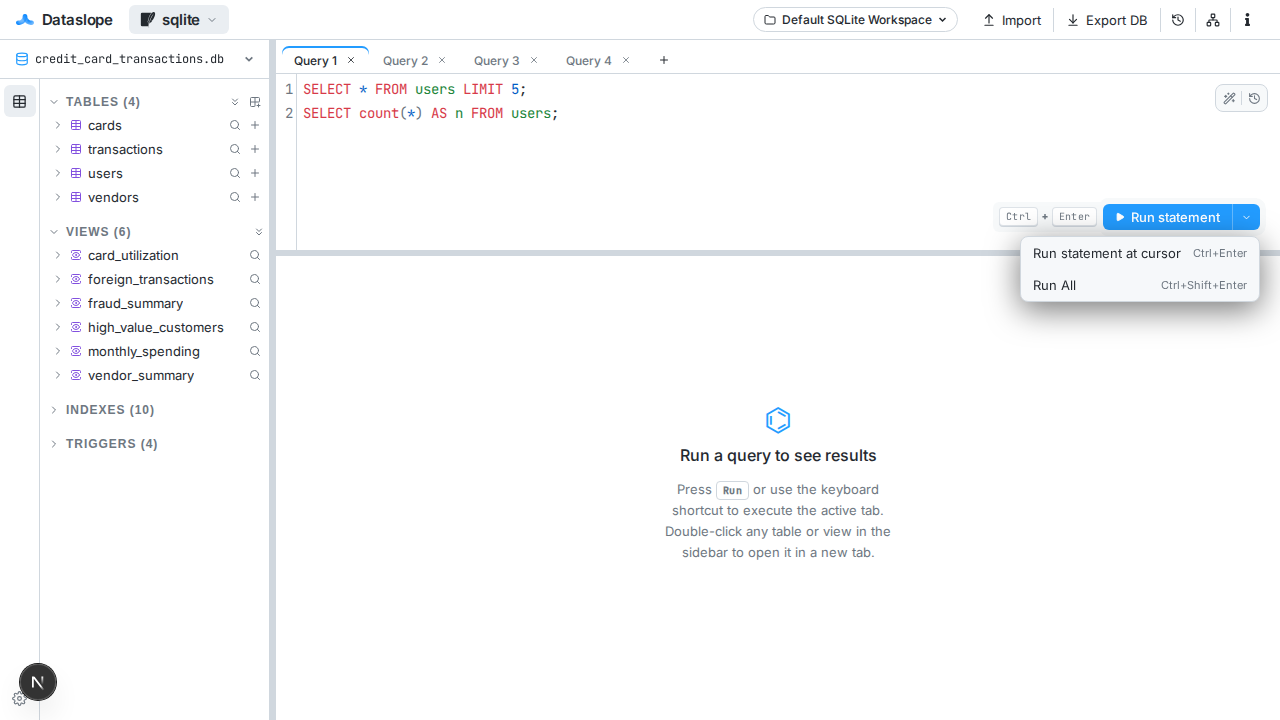
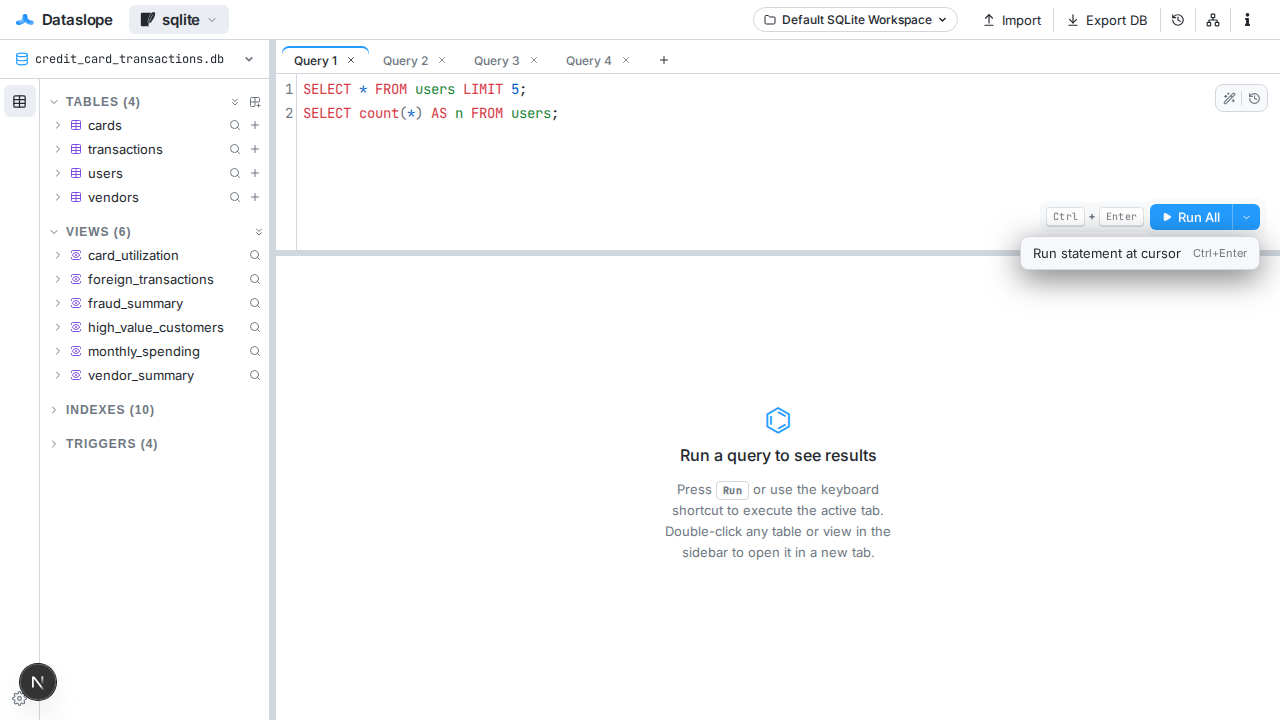
SQL playgrounds: split-button dropdown holds only the alternative action
The run split button previously listed its own primary action again in the
dropdown (e.g. primary "Run Selection" + a duplicate "Run Selection" item),
so two paths invoked the same callback. Restructure so the dropdown only ever
offers the *other* action:

  multi-statement, no selection  primary "Run All"        dropdown: Run statement at cursor (Ctrl+Enter)
  selection active               primary "Run Selection"  dropdown: Run All (Ctrl+Shift+Enter)
  single statement               plain "Run" button

The Ctrl/Cmd+Enter keymap is unchanged (still runs the statement at the cursor
in a multi-statement tab); the dropdown documents that shortcut.

Toolbar-only change. e2e/sql-run-statement-at-cursor.spec.ts updated to assert
the new defaults and that neither dropdown duplicates its primary action;
screenshot regenerated. tsc clean; eslint 0 errors; unit 378 green.

https://claude.ai/code/session_01X4jRTd8V4JHUautgyaMoZ8

Changed region(s): [[0.7812, 0.3667, 1.0, 0.4583], [0.7812, 0.275, 0.9688, 0.3361]]

diff --git a/e2e/sql-run-statement-at-cursor.spec.ts b/e2e/sql-run-statement-at-cursor.spec.ts
@@ -1,19 +1,20 @@
 import { test, expect } from "@playwright/test";
 
 // ─────────────────────────────────────────────────────────────────────
-// Run statement at cursor (Phase 4 / §9 missing IDE feature).
+// Run controls for multi-statement tabs (Phase 4 / §9 IDE feature).
 //
-// In a multi-statement tab, running with no selection executes only the
-// statement under the cursor — via the keyboard (Ctrl/⌘+Enter) and via a
-// discoverable toolbar "Run statement" split button (whose dropdown also
-// offers "Run All"). A single-statement tab keeps the plain "Run" button and
-// runs everything. Engine-agnostic (shared editor + toolbar) → tested on
-// SQLite.
+// Split-button rules — the dropdown never duplicates the primary action:
+//   • Multi-statement, no selection → primary "Run All";   dropdown: "Run
+//     statement at cursor" (Ctrl/⌘+Enter still runs just that statement).
+//   • Selection active             → primary "Run Selection"; dropdown: "Run
+//     All" (no duplicate "Run Selection").
+//   • Single statement             → plain "Run" button (runs everything).
+// Engine-agnostic (shared editor + toolbar) → tested on SQLite.
 // ─────────────────────────────────────────────────────────────────────
 
 const THREE = "SELECT 1 AS one;\nSELECT 2 AS two;\nSELECT 3 AS three;";
 
-test("run statement at cursor — keyboard, toolbar button, and dropdown", async ({
+test("run controls — Run All default, run-at-cursor in dropdown, no duplicate actions", async ({
   page,
 }) => {
   test.setTimeout(180_000);
@@ -28,6 +29,8 @@ test("run statement at cursor — keyboard, toolbar button, and dropdown", async
   const grid = page.locator(".sql-result-table");
   const setTabs = page.locator(".sql-result-set-tabs");
   const splitMain = page.locator(".run-btn-split-main");
+  const chevron = page.locator(".run-btn-split-chevron");
+  const dropdown = page.locator(".run-split-dropdown");
 
   const typeIntoEditor = async (text: string) => {
     await editor.click();
@@ -36,11 +39,19 @@ test("run statement at cursor — keyboard, toolbar button, and dropdown", async
     await page.keyboard.insertText(text);
   };
 
-  // A multi-statement tab (no selection) surfaces the "Run statement" split.
+  // Multi-statement, no selection → primary action is "Run All".
   await typeIntoEditor(THREE);
-  await expect(splitMain).toHaveText(/Run statement/);
+  await expect(splitMain).toHaveText(/Run All/);
 
-  // (1) Keyboard: cursor in the middle statement → only it runs.
+  // …and the dropdown offers ONLY "Run statement at cursor" (no duplicate).
+  await chevron.click();
+  await expect(dropdown.getByRole("menuitem")).toHaveCount(1);
+  await expect(
+    dropdown.getByRole("menuitem", { name: "Run statement at cursor" }),
+  ).toBeVisible();
+  await page.keyboard.press("Escape");
+
+  // (1) Keyboard Ctrl/⌘+Enter with the cursor in the middle statement → only it.
   await page.locator(".cm-line").nth(1).click();
   await page.keyboard.press("ControlOrMeta+Enter");
   await expect(grid.getByText("two", { exact: true })).toBeVisible({
@@ -49,22 +60,35 @@ test("run statement at cursor — keyboard, toolbar button, and dropdown", async
   await expect(setTabs).toHaveCount(0);
   await expect(grid.getByText("one", { exact: true })).toHaveCount(0);
 
-  // (2) Toolbar button: cursor in the third statement → only it runs.
+  // (2) Dropdown "Run statement at cursor" with the cursor in the third → only it.
   await page.locator(".cm-line").nth(2).click();
-  await splitMain.click();
+  await chevron.click();
+  await dropdown.getByRole("menuitem", { name: "Run statement at cursor" }).click();
   await expect(grid.getByText("three", { exact: true })).toBeVisible({
     timeout: 40_000,
   });
   await expect(setTabs).toHaveCount(0);
   await expect(grid.getByText("two", { exact: true })).toHaveCount(0);
 
-  // (3) Dropdown "Run All" → all three statements run (a result-set tab bar).
-  await page.locator(".run-btn-split-chevron").click();
-  await page.getByRole("menuitem", { name: "Run All" }).click();
+  // (3) The primary "Run All" button runs every statement (a result-set tab bar).
+  await splitMain.click();
   await expect(setTabs).toBeVisible({ timeout: 40_000 });
   await expect(setTabs.locator("[role=tab], button")).toHaveCount(3);
 
-  // (4) A single-statement tab falls back to the plain "Run" button.
+  // (4) With a selection, the primary becomes "Run Selection" and the dropdown
+  //     offers ONLY "Run All" — no duplicate "Run Selection".
+  await editor.click();
+  await page.keyboard.press("ControlOrMeta+a");
+  await expect(splitMain).toHaveText(/Run Selection/);
+  await chevron.click();
+  await expect(dropdown.getByRole("menuitem")).toHaveCount(1);
+  await expect(dropdown.getByRole("menuitem", { name: "Run All" })).toBeVisible();
+  await expect(
+    dropdown.getByRole("menuitem", { name: "Run Selection" }),
+  ).toHaveCount(0);
+  await page.keyboard.press("Escape");
+
+  // (5) A single-statement tab falls back to the plain "Run" button.
   await typeIntoEditor("SELECT 42 AS answer;");
   await expect(page.locator(".run-btn")).toHaveText(/^Run$/);
   await expect(splitMain).toHaveCount(0);

diff --git a/app/_components/sql/components/SqlEditorToolbar.tsx b/app/_components/sql/components/SqlEditorToolbar.tsx
@@ -135,24 +135,20 @@ export function SqlEditorToolbar({
             disabled={disabled}
             mainLabel="Run Selection"
             onMain={onRunSelection}
-            items={[
-              { label: "Run Selection", kbd: runKbd, onClick: onRunSelection },
-              { label: "Run All", kbd: runAllKbd, onClick: onRunAll },
-            ]}
+            items={[{ label: "Run All", kbd: runAllKbd, onClick: onRunAll }]}
           />
         ) : hasMultipleStatements ? (
           <RunSplit
             running={running}
             disabled={disabled}
-            mainLabel="Run statement"
-            onMain={onRunStatement}
+            mainLabel="Run All"
+            onMain={onRunAll}
             items={[
               {
                 label: "Run statement at cursor",
                 kbd: runKbd,
                 onClick: onRunStatement,
               },
-              { label: "Run All", kbd: runAllKbd, onClick: onRunAll },
             ]}
           />
         ) : (

diff --git a/agent-outputs/20260531-0345-sql-playgrounds-ux-audit.md b/agent-outputs/20260531-0345-sql-playgrounds-ux-audit.md
@@ -11,7 +11,7 @@
 > - **2026-06-02 — Post-commit undo, DuckDB parameter binding, run-statement-at-cursor (this PR).**
 >   - **UX-10 — *post-commit undo* (now complete).** After committing cell edit(s), a slim **"Undo"** bar appears below the result grid ("Updated N cells in <table>") and re-applies the **previous** values on click — PK-addressed, so it's still correct after the edited row moved under MVCC. It survives the post-commit re-fetch, auto-dismisses after 15 s, and is gated by a pure `reversibleCellValue` helper so it's only offered when every prior value round-trips cleanly (scalars/`Date`; complex array/object/bytes originals suppress it rather than risk a lossy reverse-write). Per-cell discard ✕ + Ctrl/⌘+Enter commit were already done, so UX-10 is now fully closed. Shared `ResultView` + `utils/cellEditing.ts` (**+4** unit tests), live-verified on SQLite/PostgreSQL/DuckDB (`e2e/sql-edit-undo.spec.ts`). `fix-undo-bar.png`.
 >   - **UX-17 — DuckDB writes now use prepared-statement parameter binding.** `updateRows` / `insertRow` / `deleteRows` no longer build SQL by quote-escaping and string-concatenating values; they bind positional `?` parameters via `conn.prepare(...)` (verified working in duckdb-wasm 1.32.0). DuckDB casts each parameter to the target column type — so a numeric column edited through a text input is no longer at risk of receiving a `VARCHAR` literal — and quoted strings need no manual escaping. New pure `toBindParam` normalizer in `runtime/duckdb.ts` (**+4** unit tests; **365→369** total). Live-verified: a committed edit of `O'Brien & "Sons"` round-trips through the prepared statement (`e2e/sql-duckdb-param-binding.spec.ts`), and the existing DuckDB edit/commit/undo/refetch specs still pass.
->   - **Run statement at cursor (§9 IDE feature) — keyboard *and* a discoverable button.** In a multi-statement tab, **Ctrl/⌘+Enter** with no selection runs just the statement under the cursor (the universal IDE behavior); a single-statement tab is unchanged, and Ctrl/⌘+Shift+Enter forces run-all. To make it discoverable (and keep the button consistent with the shortcut), the toolbar Run control becomes a **"Run statement" split button** for multi-statement tabs, whose dropdown lists **"Run statement at cursor · Ctrl+Enter"** and **"Run All · Ctrl+Shift+Enter"** (so the keys are taught in-app, per-platform — `Ctrl` on Windows/Linux, `⌘` on macOS). Single-statement tabs keep the plain **Run** button. Pure `splitSqlStatements` / `statementAtCursor` in `utils/sqlAnalysis.ts` (string/identifier/comment/dollar-quote aware; **+9** unit tests; **369→378** total) drive the shared `editorSetup.ts` keymap and a `hasMultipleStatements` memo wired into all three playgrounds + the shared `SqlEditorToolbar`. Live-verified keyboard + button + dropdown + single-statement fallback (`e2e/sql-run-statement-at-cursor.spec.ts`). `fix-run-statement-menu.png`.
+>   - **Run statement at cursor (§9 IDE feature) — keyboard *and* a discoverable button.** In a multi-statement tab, **Ctrl/⌘+Enter** with no selection runs just the statement under the cursor (the universal IDE behavior); a single-statement tab is unchanged, and Ctrl/⌘+Shift+Enter forces run-all. To make it discoverable, the toolbar Run control becomes a **split button** that never duplicates its own primary action: for a multi-statement tab the primary is **Run All** and the dropdown offers **"Run statement at cursor · Ctrl+Enter"**; with a selection the primary is **Run Selection** and the dropdown offers **"Run All · Ctrl+Shift+Enter"** (so the relevant key is taught in-app, per-platform — `Ctrl` on Windows/Linux, `⌘` on macOS). Single-statement tabs keep the plain **Run** button. Pure `splitSqlStatements` / `statementAtCursor` in `utils/sqlAnalysis.ts` (string/identifier/comment/dollar-quote aware; **+9** unit tests; **369→378** total) drive the shared `editorSetup.ts` keymap and a `hasMultipleStatements` memo wired into all three playgrounds + the shared `SqlEditorToolbar`. Live-verified keyboard + button + dropdown + no-duplicate + single-statement fallback (`e2e/sql-run-statement-at-cursor.spec.ts`). `fix-run-statement-menu.png`.
 > - **2026-06-01 — SQL playground enhancements (this PR, #438).** All in shared components, so SQLite/PostgreSQL/DuckDB get them at once, with no engine/runtime changes:
 >   - **Column statistics** — a result-grid column-menu item opening a dialog with non-null / null %, distinct, numeric **min/max/mean/median/sum** and text **length** stats, plus a **most-frequent values** list; and a **"Copy column values"** action. Pure helper `utils/columnStats.ts` (**+20** unit tests, 341→361). Closes the §9 "column quick stats" gap.
 >   - **Cell-editing ergonomics (UX-10, partial)** — a **per-cell discard "✕"** that reverts a single pending edit (the audit's "no per-row/column discard"), and **Ctrl/⌘+Enter to commit** pending edits (the "no keyboard shortcut" gap; Esc already discards). Post-commit undo still open.
@@ -275,7 +275,7 @@ Things a "basic" SQL IDE is generally expected to have. ✅ = already present (d
 **Editing & running**
 - ✅ Syntax highlighting, autocomplete (`@codemirror/lang-sql` + `sqlCompletion.ts`), find/replace (`searchKeymap`), SQL format (`sql-formatter`), run shortcut, multi-result tabs.
 - ❌ **Query cancellation / timeout** for long-running queries (no AbortController/worker-terminate; no elapsed indicator beyond final timing). High value.
-- ✅ **Run-selection / run-statement-at-cursor** — both ship. Run-selection is in the editor toolbar; in a multi-statement tab, **Ctrl/⌘+Enter** (no selection) runs just the statement under the cursor, and the toolbar shows a discoverable **"Run statement" split button** (dropdown: "Run statement at cursor · Ctrl+Enter" / "Run All · Ctrl+Shift+Enter"). Single-statement tabs keep the plain Run button. `utils/sqlAnalysis.ts` `statementAtCursor`, shared `editorSetup.ts` keymap + `SqlEditorToolbar`.
+- ✅ **Run-selection / run-statement-at-cursor** — both ship. The toolbar Run control is a split button whose dropdown holds only the *alternative* action: multi-statement → primary **Run All** + dropdown **"Run statement at cursor · Ctrl+Enter"**; selection → primary **Run Selection** + dropdown **"Run All · Ctrl+Shift+Enter"**; single statement → plain **Run**. In a multi-statement tab **Ctrl/⌘+Enter** (no selection) runs just the statement under the cursor. `utils/sqlAnalysis.ts` `statementAtCursor`, shared `editorSetup.ts` keymap + `SqlEditorToolbar`.
 - ✅ **Saved queries / snippets** — **done.** Star a History entry → it lands in a persisted "Saved queries" section (`useSavedQueries` + shared `QueryHistoryPane`); ✅ history is also **persisted** to localStorage (UX-13).
 - ❌ **Command palette / keyboard-shortcut cheatsheet.**
 
@@ -402,7 +402,7 @@ The "pragmatic first cut" from §10 (Phase A + the single-pane shell) is done an
 ### Phase 4 — Feature gaps & polish
 
 15. **UX-11 / UX-16** — create-index/trigger/view UI for PG/DuckDB (or port SQLite's tabbed form); CHECK/comment/table-constraint fields; "Show generated SQL" preview; default-value function picker.
-16. **Missing IDE features (§9):** ✅ **in-grid filter/search** on all three engines for any in-memory result (footer "Filter rows…" field, `column:term` scoping, `utils/resultFilter.ts`; engine-paged results push the filter down to SQL — subquery-wrap + `LIKE`/`ILIKE` `WHERE`, re-paged so infinite scroll is preserved). ✅ **column quick-stats** — "Column statistics" dialog (null %, distinct, numeric min/max/mean/median/sum, text length, most-frequent) + "Copy column values", shared `ResultView`, `utils/columnStats.ts`, live-verified (`e2e/sql-column-stats.spec.ts`). ✅ **run-selection** already ships (the editor's Run Selection / Run All toolbar). ✅ **run-statement-at-cursor** — in a multi-statement tab, Ctrl/⌘+Enter (no selection) runs just the statement under the cursor, surfaced via a discoverable **"Run statement" split button** (dropdown shows both actions + their shortcuts) so it isn't keyboard-only; single-statement tabs keep the plain Run button; Ctrl/⌘+Shift+Enter forces run-all. `statementAtCursor`/`splitSqlStatements` (`utils/sqlAnalysis.ts`) + shared `editorSetup.ts` keymap + `SqlEditorToolbar`, wired through `hasMultipleStatements` in all three playgrounds. Live-verified `e2e/sql-run-statement-at-cursor.spec.ts`. ✅ **saved queries** — star a History entry → persisted "Saved queries" section (`useSavedQueries` + shared `QueryHistoryPane`, `e2e/sql-saved-queries.spec.ts`). **Remaining:** query cancellation + elapsed timer; EXPLAIN visualization.
+16. **Missing IDE features (§9):** ✅ **in-grid filter/search** on all three engines for any in-memory result (footer "Filter rows…" field, `column:term` scoping, `utils/resultFilter.ts`; engine-paged results push the filter down to SQL — subquery-wrap + `LIKE`/`ILIKE` `WHERE`, re-paged so infinite scroll is preserved). ✅ **column quick-stats** — "Column statistics" dialog (null %, distinct, numeric min/max/mean/median/sum, text length, most-frequent) + "Copy column values", shared `ResultView`, `utils/columnStats.ts`, live-verified (`e2e/sql-column-stats.spec.ts`). ✅ **run-selection** already ships (the editor's Run Selection / Run All toolbar). ✅ **run-statement-at-cursor** — in a multi-statement tab, Ctrl/⌘+Enter (no selection) runs just the statement under the cursor, surfaced via a discoverable split button so it isn't keyboard-only. The dropdown never duplicates the primary action: multi-statement → primary **Run All** + dropdown **"Run statement at cursor · Ctrl+Enter"**; selection → primary **Run Selection** + dropdown **"Run All · Ctrl+Shift+Enter"**; single statement → plain **Run**. `statementAtCursor`/`splitSqlStatements` (`utils/sqlAnalysis.ts`) + shared `editorSetup.ts` keymap + `SqlEditorToolbar`, wired through `hasMultipleStatements` in all three playgrounds. Live-verified `e2e/sql-run-statement-at-cursor.spec.ts`. ✅ **saved queries** — star a History entry → persisted "Saved queries" section (`useSavedQueries` + shared `QueryHistoryPane`, `e2e/sql-saved-queries.spec.ts`). **Remaining:** query cancellation + elapsed timer; EXPLAIN visualization.
 17. **UX-15 / UX-18 / UX-19 polish — ✅ Done.** ✅ **UX-19** (dialog subtitle muted `--text-dim`); ✅ **UX-15 (partial)** (PG identity header → single-line "Identity" + tooltip; SQLite "Auto-increment" kept as its distinct `AUTOINCREMENT` concept); ✅ **UX-18** (desktop loading hero capped ~180px→104px, SQL-scoped CSS, verified live `fix-loading-hero-desktop.png`).
 18. **UX-Q1/Q2/Q3 code quality** — deterministic tab ids (kill hydration mismatch); fix `<div>`-in-`<table>` nesting; nudge Settings gear off the dev-badge corner.
 
@@ -440,4 +440,4 @@ The "pragmatic first cut" from §10 (Phase A + the single-pane shell) is done an
 | `fix-saved-queries.png` | "Saved queries" section + per-entry ★ in the History pane |
 | `fix-loading-hero-desktop.png` | Right-sized desktop loading hero (UX-18) |
 | `fix-undo-bar.png` | Post-commit "Undo" bar after a committed cell edit (UX-10) |
-| `fix-run-statement-menu.png` | "Run statement" split button + dropdown (run-statement-at-cursor) |
+| `fix-run-statement-menu.png` | Run split button — "Run All" primary + "Run statement at cursor" in the dropdown |
